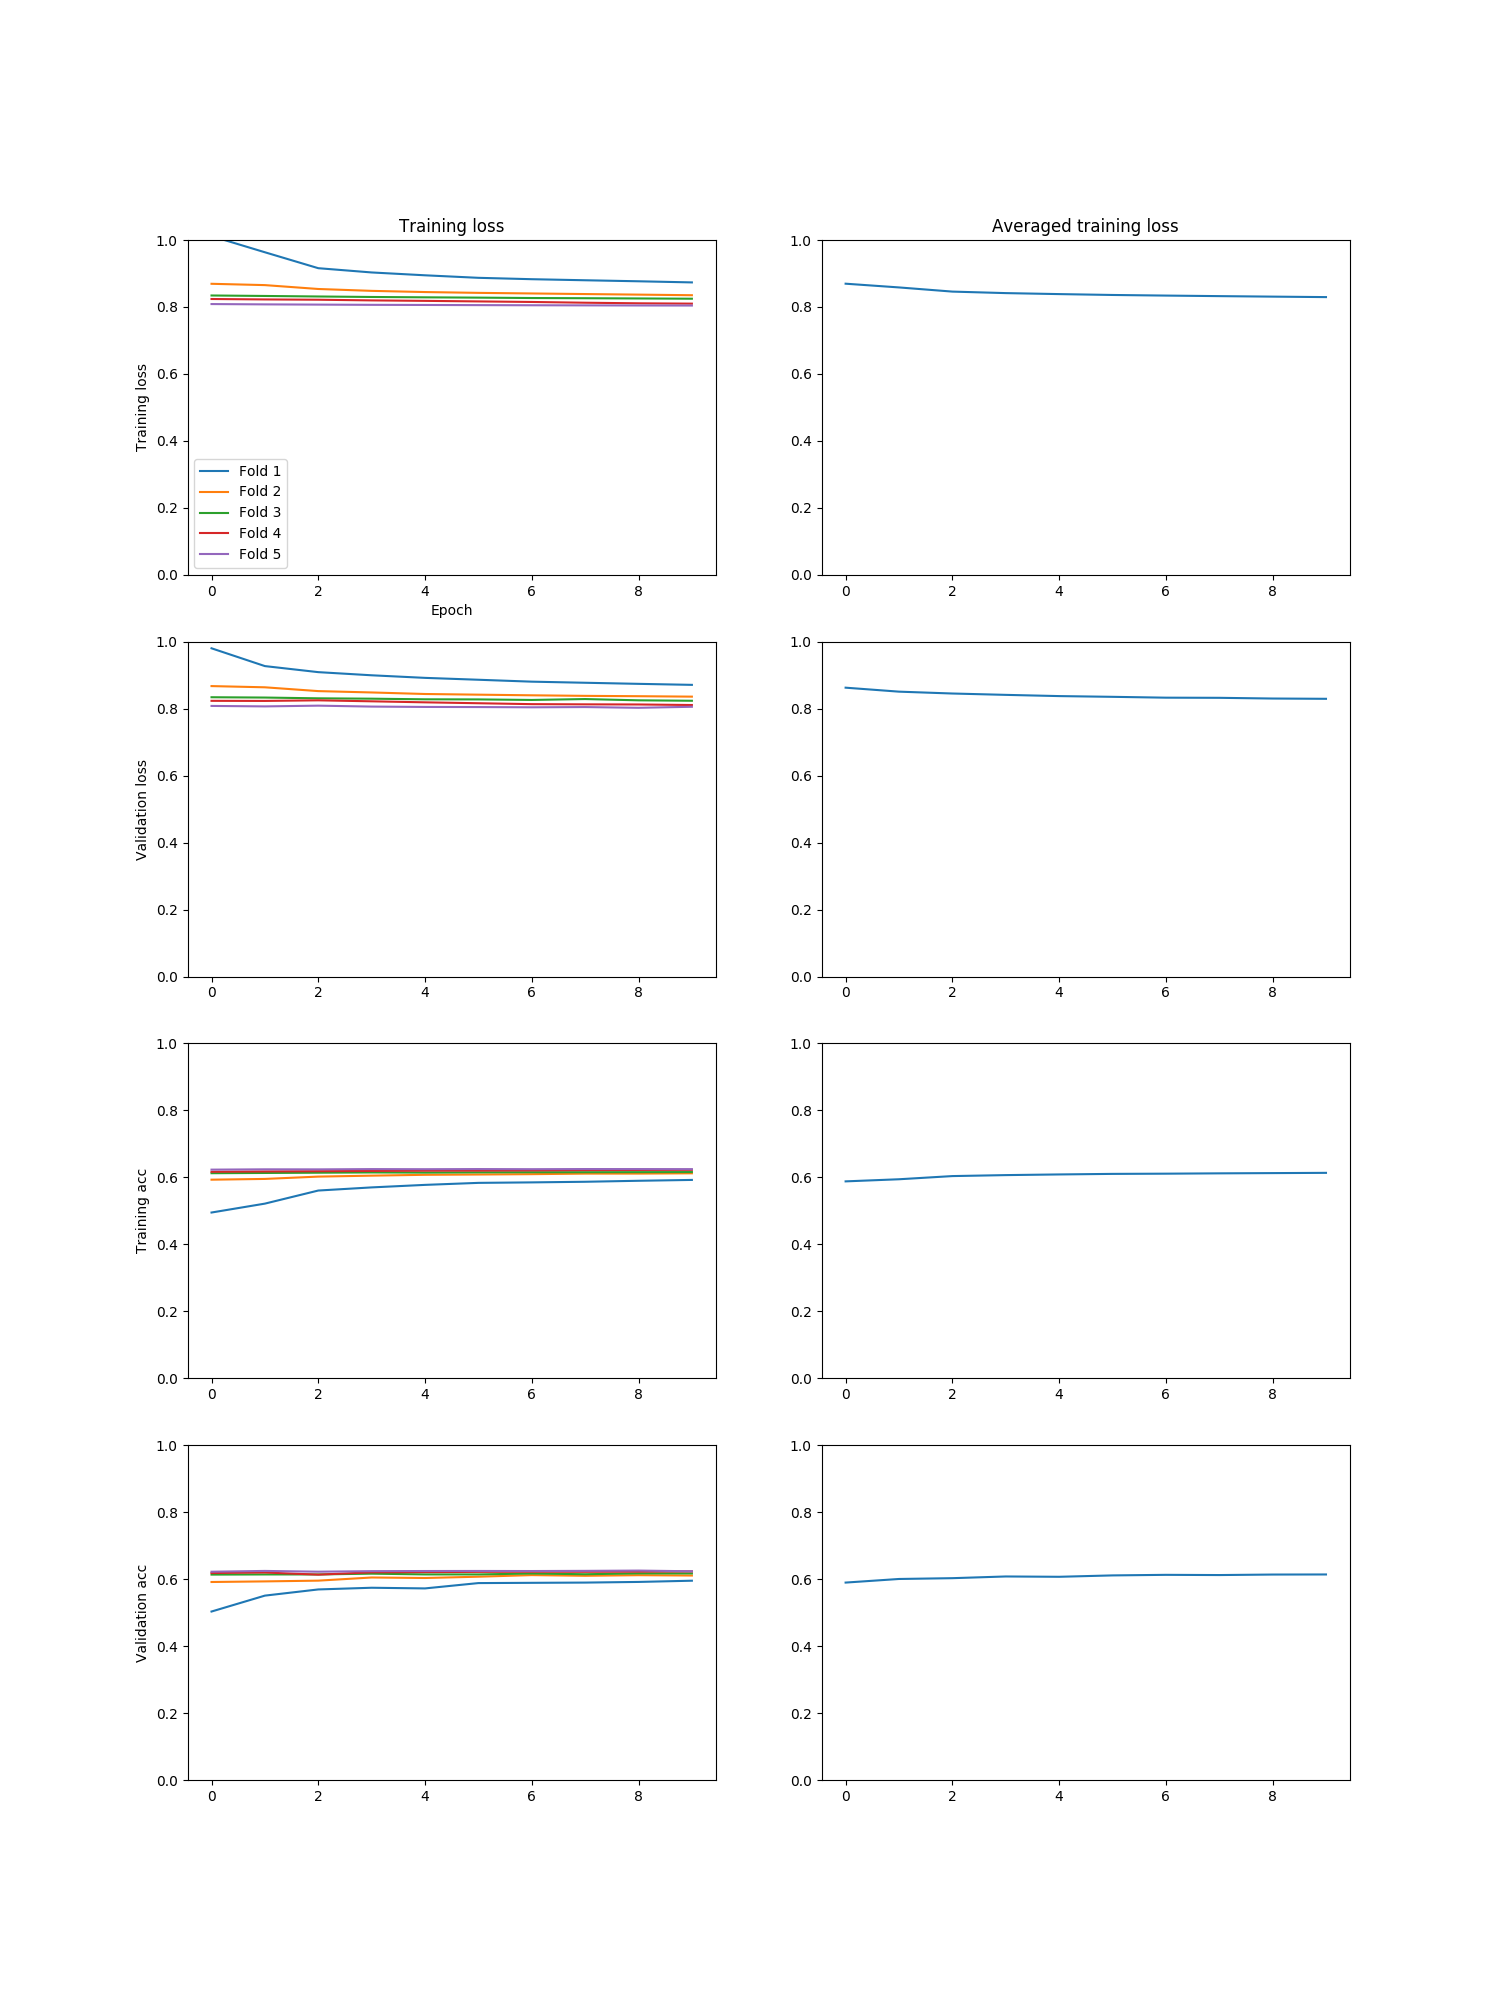
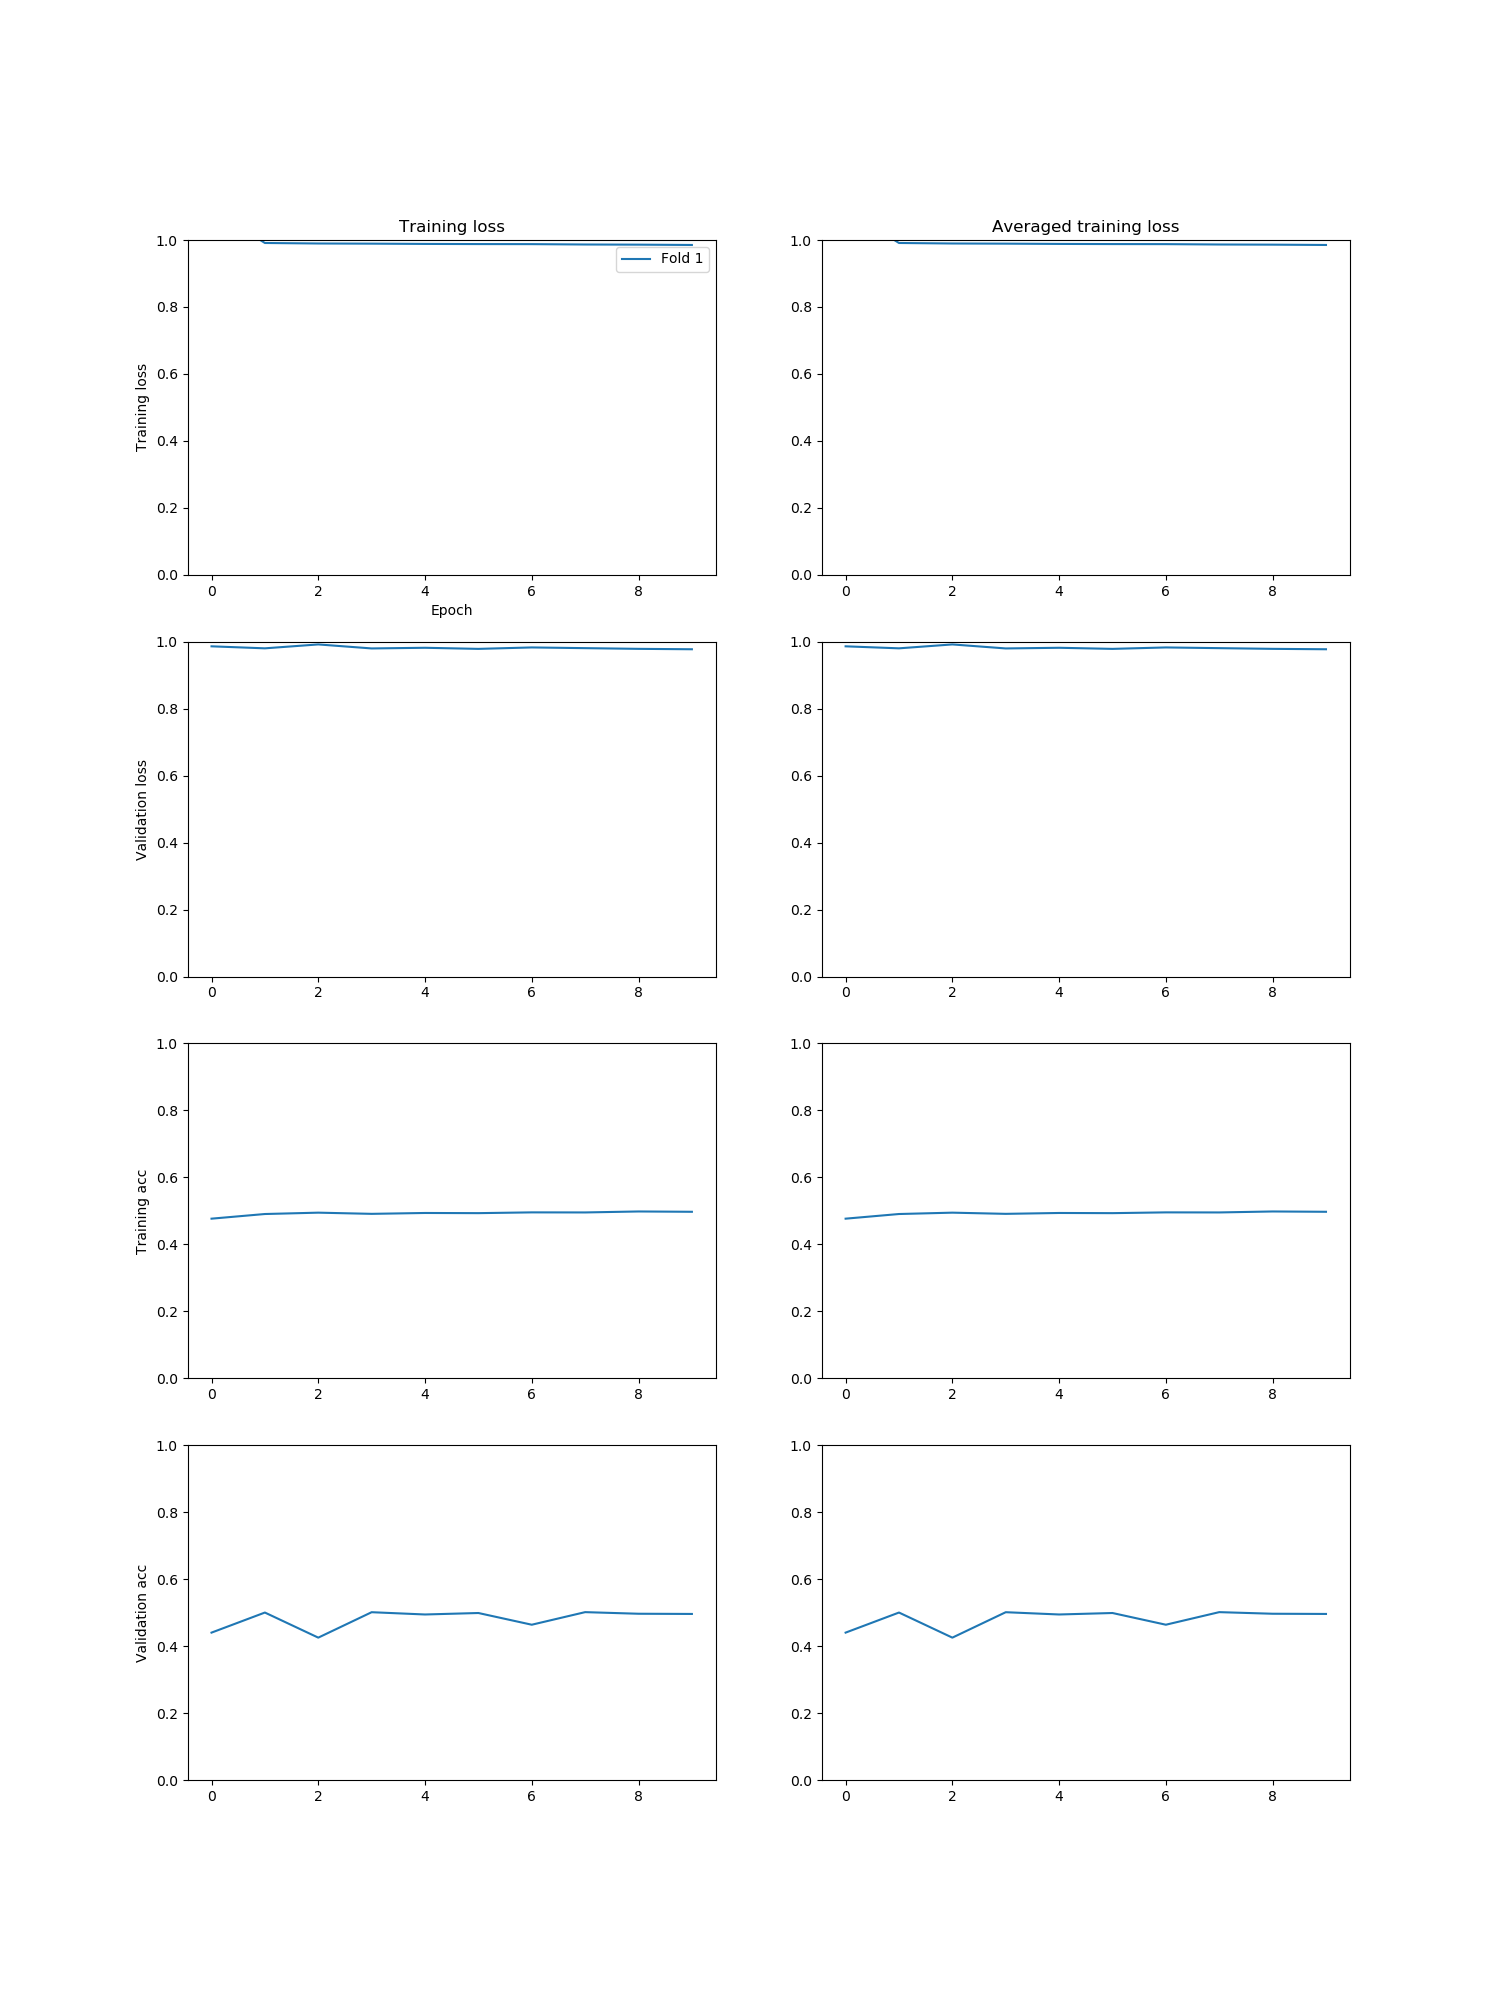
Update

diff --git a/classification.py b/classification.py
@@ -30,7 +30,7 @@ def create_input_layer(feature: np.array) -> (Tensor, Tensor):
     return input_layer, x
 
 
-df_train = pd.read_csv('poker-hand.data', header=None, sep=',')
+df_train = pd.read_csv('poker-hand-training-true.data', header=None, sep=',')
 
 features = df_train.iloc[:, :-1].copy()
 X_train = []
@@ -75,7 +75,7 @@ scores = []
 model = Model(inputs=inputs, outputs=y)
 model.compile(loss='categorical_crossentropy', metrics=['accuracy'], optimizer=Adam())
 logger = AfterEpochLogger(5)
-model.fit(X_train, Y_train, validation_split=0.2, epochs=500, batch_size=256, callbacks=[logger])
+model.fit(X_train, Y_train, validation_split=0.2, epochs=300, batch_size=32, callbacks=[logger], shuffle=True)
 
 predicts_train = model.predict(X_train)
 score_train = roc_auc_score(Y_train, predicts_train, average='micro')
